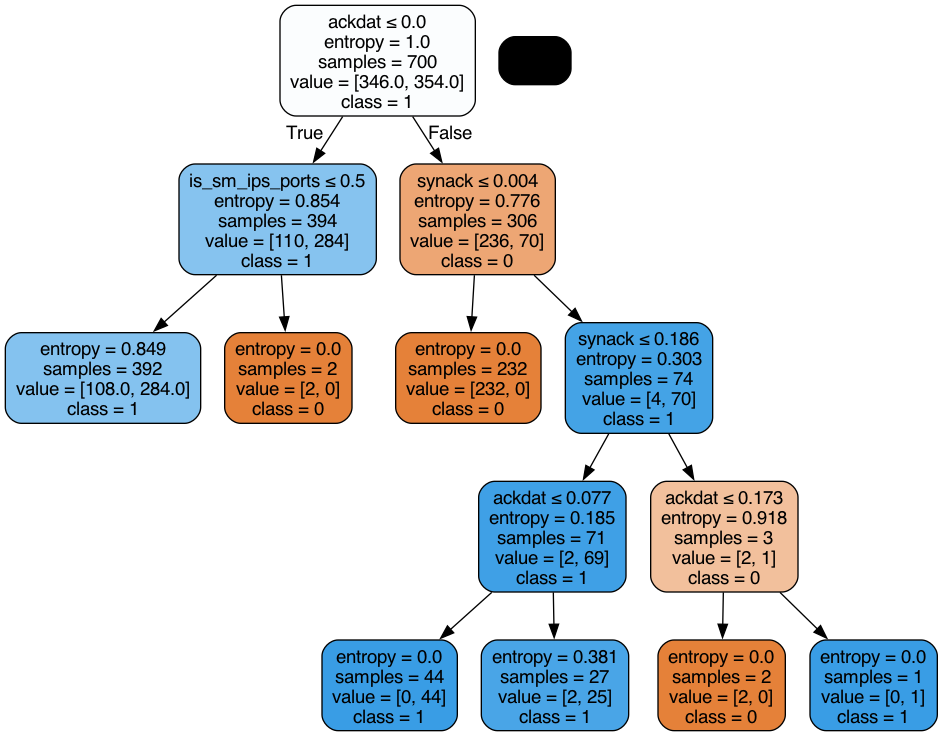
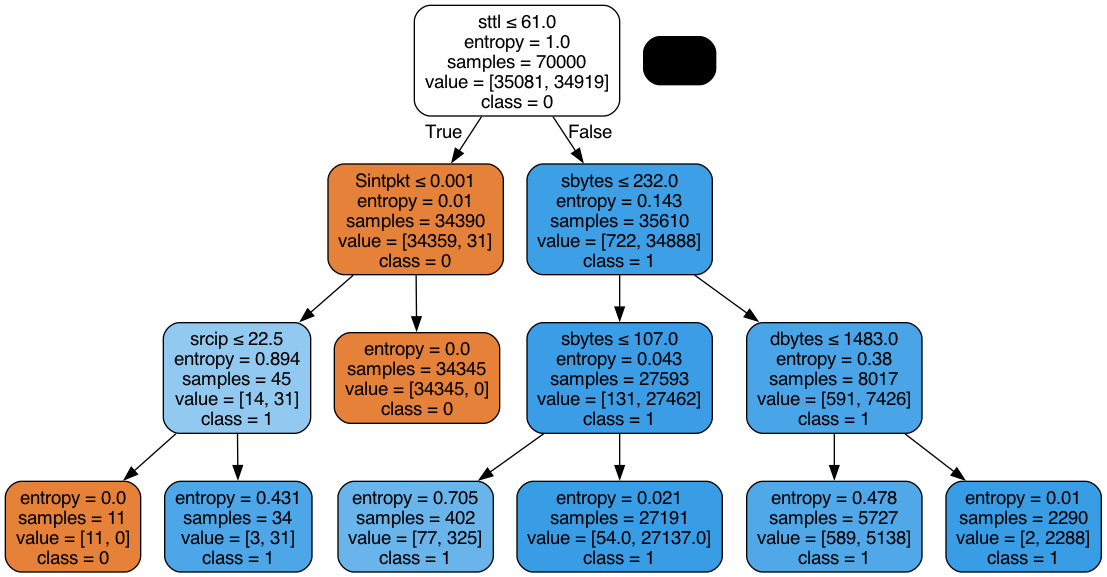
removed attack_cat from dataset all the feature selection should be able to get close to 0.99

diff --git a/NIDS.py b/NIDS.py
@@ -13,7 +13,9 @@ from IPython.display import Image
 import pydotplus
 from tabulate import tabulate
 
-df = pd.read_csv('UNSW-NB15-BALANCED-TRAIN.csv', low_memory=False, nrows=1000)
+
+## this only tries the first 100000 rows of the dataset
+df = pd.read_csv('UNSW-NB15-BALANCED-TRAIN.csv', low_memory=False, nrows=100000)
 
 categorical_cols = df.select_dtypes(include=['object']).columns
 numeric_cols = df.select_dtypes(include=['float64', 'int64']).columns
@@ -26,8 +28,9 @@ for col in categorical_cols:
     le = LabelEncoder()
     df[col] = le.fit_transform(df[col].astype(str))
     label_encoders[col] = le
-
-X = df.drop(['Label'], axis=1)
+# removing attack_cat and label columns from the x
+X = df.drop(['attack_cat', 'Label'], axis=1)
+# for the part 1 and 2 we will use label and after we will try to use attack_cat
 y = df['Label']
 
 print(df.head())
@@ -35,8 +38,8 @@ print(df.head())
 X_train, X_test, y_train, y_test = train_test_split(X, y, test_size=0.3, random_state=1)
 # tested esimators: RandomForestClassifier, DecisionTreeClassifier, LinearRegression, SVC, GradientBoostingClassifier
 # the most realistic results are obtained with LinearRegression
-estimator = LinearRegression()
-rfe = RFE(estimator=estimator, n_features_to_select=4)
+estimator = DecisionTreeClassifier()
+rfe = RFE(estimator=estimator, n_features_to_select=8)
 rfe.fit(X_train, y_train)
 
 features_df = pd.DataFrame({
@@ -50,7 +53,7 @@ print(features_df)
 X_train_rfe = rfe.transform(X_train)
 X_test_rfe = rfe.transform(X_test)
 
-model = DecisionTreeClassifier(criterion='entropy', max_depth=4)
+model = DecisionTreeClassifier(criterion='entropy', max_depth=3)
 model = model.fit(X_train_rfe, y_train)
 
 y_pred = model.predict(X_test_rfe)
